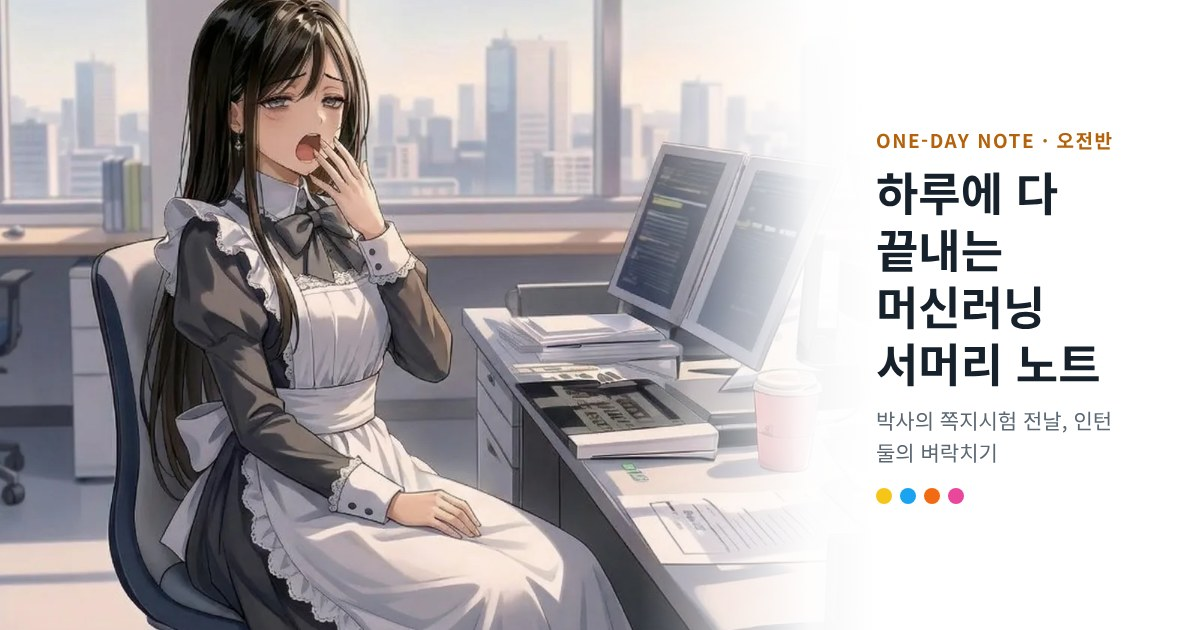
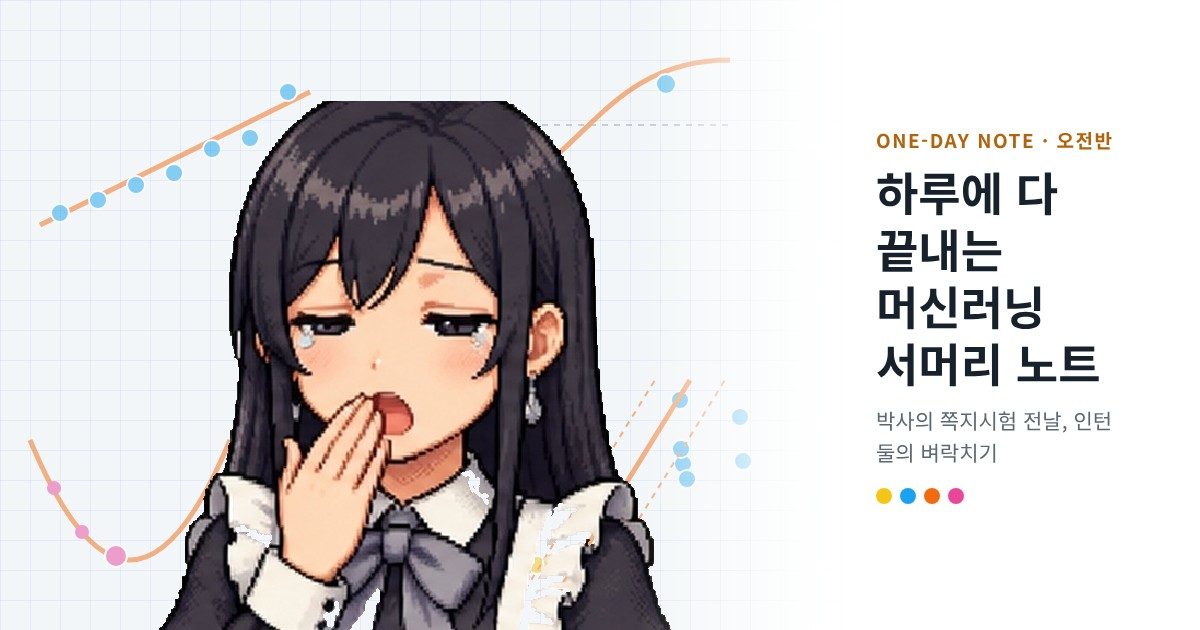
공유 미리보기·썸네일: 시아 픽셀 판으로 교체 (딥러닝 판과 짝)

diff --git a/docs/COVER_one_day_ml_am.md b/docs/COVER_one_day_ml_am.md
@@ -17,9 +17,8 @@
 ## 지금 상태
 
 - `cover_one_day_ml_am.webp` (1600×893, 97 KB): 기준 그림 그대로 넣었습니다. **시아만 있습니다.**
-- `og_one_day_ml_am.jpg` (1200×630): 같은 그림에 제목을 얹어 만들었습니다.
-- `thumb_one_day_ml_am.webp` (600×400): 같은 그림에서 시아 쪽을 잘랐습니다.
-- 모아가 함께 있는 그림을 받으면 세 파일을 모두 바꿉니다.
+- `og_one_day_ml_am.jpg` (1200×630)와 `thumb_one_day_ml_am.webp` (600×400): 시아 픽셀 그림(캐릭터 팩 E17 졸림·하품)에 머신러닝 도표를 옅게 깐 판입니다. 딥러닝 판(모아)과 짝을 맞췄습니다.
+- 모아가 함께 있는 그림을 받으면 표지 그림만 바꿉니다.
 
 ## 시아 + 모아 그림 요청 (Genspark에 붙여 넣기 ↓)
 
@@ -55,4 +54,4 @@ No text, no letters, no numbers, no logos, no real brands, no cigarettes, no alc
 
 ## 반영
 
-1600×900 안팎 WebP 220 KB 이하로 줄여 `cover_one_day_ml_am.webp`를 바꿔 넣습니다. `index.html`은 그대로 두고 `alt`만 위 대체 글로 고칩니다. 공유 미리보기와 썸네일은 새 그림에서 다시 만듭니다.
+1600×900 안팎 WebP 220 KB 이하로 줄여 `cover_one_day_ml_am.webp`를 바꿔 넣습니다. `index.html`은 그대로 두고 `alt`만 위 대체 글로 고칩니다. 공유 미리보기와 썸네일은 시아 픽셀 판을 그대로 둡니다.

diff --git a/docs/IMG_one_day_ml_am.md b/docs/IMG_one_day_ml_am.md
@@ -18,8 +18,8 @@
 | 키 | 판 | 쓰는 자리 | 상태 | 비고 |
 |---|---|---|---|---|
 | `cover_one_day_ml_am.webp` | L 1600×893 | 페이지 맨 위 표지 | **일부 완료** | 선정: 하품하는 시아와 모아(애니메이션 일러스트, 밝은 사무실). 지금은 시아만 있는 기준 그림. 모아를 더한 그림 요청문은 `COVER_one_day_ml_am.md` |
-| `og_one_day_ml_am.jpg` | K 1200×630 | 공유 미리보기 | **완료** | 표지 그림에 제목을 얹어 만듦. `og:image` 연결됨 |
-| `thumb_one_day_ml_am.webp` | I 600×400 | 목차·현황판 썸네일 | **완료** | 표지 그림에서 시아 쪽을 자름 |
+| `og_one_day_ml_am.jpg` | K 1200×630 | 공유 미리보기 | **완료** | 시아 픽셀 그림(E17) + 머신러닝 도표 배경 + 제목. 딥러닝 판(모아)과 짝. `og:image` 연결됨 |
+| `thumb_one_day_ml_am.webp` | I 600×400 | 목차·현황판 썸네일 | **완료** | 시아 픽셀 그림(E17) + 머신러닝 도표 배경 |
 | `sc_period1`~`sc_period4` | — | 교시 머리 | **완료 (코드)** | 그 교시 칸마다 하나씩 움직이는 도감 그림. 따로 그릴 그림 없음 |
 | 표정 37장 | A~D | 말풍선·대화·식구 카드·암기 카드 | **캐릭터 팩 재사용** | 아래 4번 목록. 새로 그릴 것 없음 |
 

diff --git a/README.md b/README.md
@@ -44,7 +44,7 @@ AI 연구실 해설 · 쪽지시험 대비 · 비전공자용
 |---|---|
 | `index.html` | 오전반 해설 페이지 (단일 파일, 외부 라이브러리 없음) |
 | `cover_one_day_ml_am.webp` | 표지 그림. 하품하는 시아 (모아를 더한 그림으로 바꿀 예정) |
-| `og_one_day_ml_am.jpg` · `thumb_one_day_ml_am.webp` | 공유 미리보기(1200×630)와 썸네일(600×400). 표지 그림에서 만듦 |
+| `og_one_day_ml_am.jpg` · `thumb_one_day_ml_am.webp` | 공유 미리보기(1200×630)와 썸네일(600×400). 시아 픽셀 그림과 머신러닝 도표 배경 |
 | `docs/IMG_one_day_ml_am.md` | 이미지 제작 명세서 |
 | `docs/COVER_one_day_ml_am.md` | 표지 그림 지시문 |
 | `cover_manifest.json` | 표지·온톨로지·언어 현황 (현황판 연결) |
